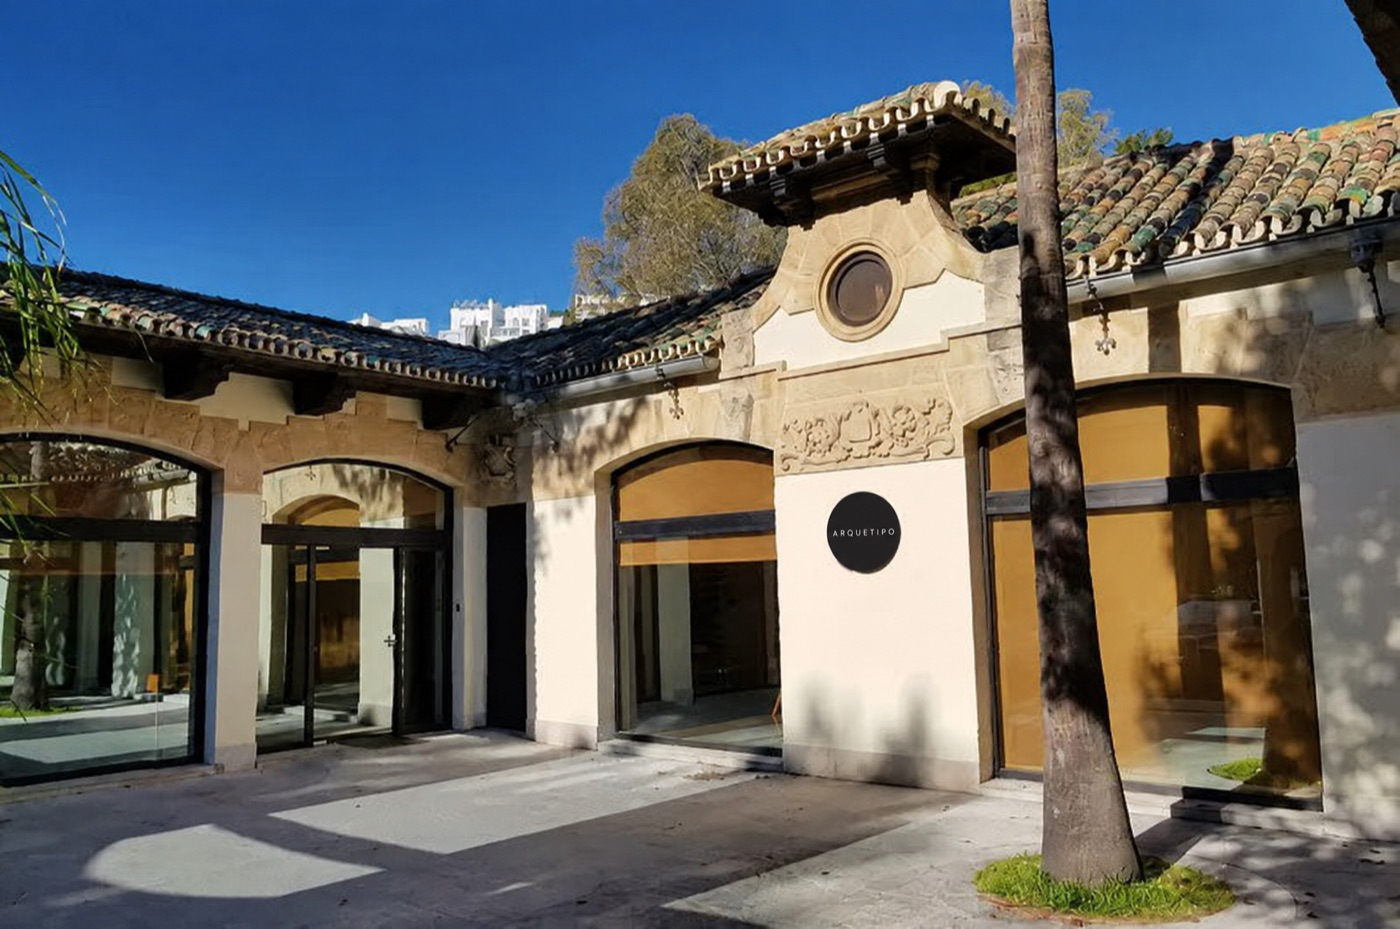
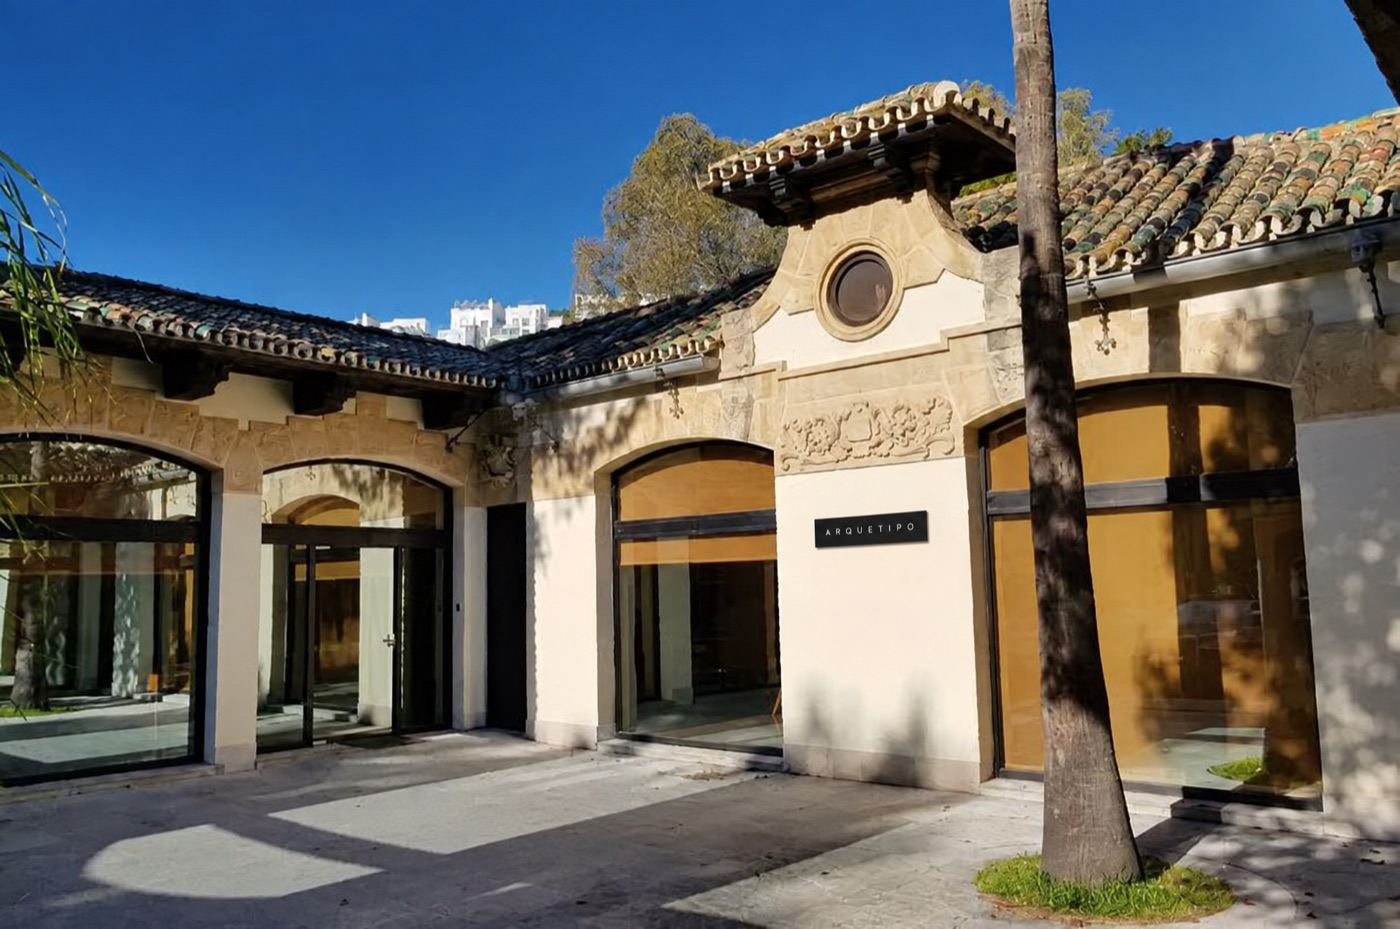
contact: Málaga with the horizontal Arquetipo plaque; portfolio: Looper in Spectrum Dominance early ventures

diff --git a/news-missions.html b/news-missions.html
@@ -83,7 +83,7 @@
     <div class="post-sec">
       <h2 class="post-h">Spectrum Dominance</h2>
       <p class="post-p" data-es="Guerra electrónica y comunicaciones resilientes: sentir, caracterizar y actuar en el espectro electromagnético, y mantener las comunicaciones cuando el adversario intenta cortarlas — sin permiso de nadie más." data-en="Electronic warfare and resilient communications: sensing, characterising and acting in the electromagnetic spectrum, and keeping communications up when the adversary tries to cut them — without permission from anyone else." data-de="Elektronische Kampfführung und resiliente Kommunikation: das elektromagnetische Spektrum erfassen, charakterisieren und darin handeln – und die Kommunikation aufrechterhalten, wenn der Gegner sie zu kappen versucht. Ohne Erlaubnis von irgendwem.">Guerra electrónica y comunicaciones resilientes: sentir, caracterizar y actuar en el espectro electromagnético, y mantener las comunicaciones cuando el adversario intenta cortarlas — sin permiso de nadie más.</p>
-      <p class="post-p" data-es="En investigación: Cognitive EW. El módulo de guerra electrónica de Stormbringer alimenta además esta Misión." data-en="In research: Cognitive EW. Stormbringer&#x27;s electronic-warfare module also feeds this Mission." data-de="In der Forschung: Cognitive EW. Das Modul für elektronische Kampfführung von Stormbringer speist zudem diese Mission.">En investigación: Cognitive EW. El módulo de guerra electrónica de Stormbringer alimenta además esta Misión.</p>
+      <p class="post-p" data-es="En investigación: Cognitive EW y Looper. El módulo de guerra electrónica de Stormbringer alimenta además esta Misión." data-en="In research: Cognitive EW and Looper. Stormbringer&#x27;s electronic-warfare module also feeds this Mission." data-de="In der Forschung: Cognitive EW und Looper. Das Modul für elektronische Kampfführung von Stormbringer speist zudem diese Mission.">En investigación: Cognitive EW y Looper. El módulo de guerra electrónica de Stormbringer alimenta además esta Misión.</p>
     </div>
 
     <div class="post-sec">

diff --git a/portfolio.html b/portfolio.html
@@ -213,6 +213,11 @@
         <p class="formation-cap" data-en="Cognitive electronic warfare: detect, characterise and respond to unknown emissions in real time" data-de="Kognitive elektronische Kampfführung: unbekannte Emissionen in Echtzeit erkennen, charakterisieren und beantworten" data-es="Guerra electrónica cognitiva: detectar, caracterizar y responder a emisiones desconocidas en tiempo real">Guerra electrónica cognitiva: detectar, caracterizar y responder a emisiones desconocidas en tiempo real</p>
       </article>
       <article class="formation-card formation-card--early">
+        <p class="formation-mission">Spectrum Dominance</p>
+        <h3 class="formation-name">Looper</h3>
+        <p class="formation-cap" data-en="The loop never closes." data-de="Die Schleife schließt sich nie." data-es="El bucle nunca se cierra.">El bucle nunca se cierra.</p>
+      </article>
+      <article class="formation-card formation-card--early">
         <p class="formation-mission">Trusted Autonomy</p>
         <h3 class="formation-name">MinotaurOS</h3>
         <p class="formation-cap" data-en="Modular mission operating system, for any platform" data-de="Modulares Missionsbetriebssystem für jede Plattform" data-es="Sistema operativo de misión modular, para cualquier plataforma">Sistema operativo de misión modular, para cualquier plataforma</p>
